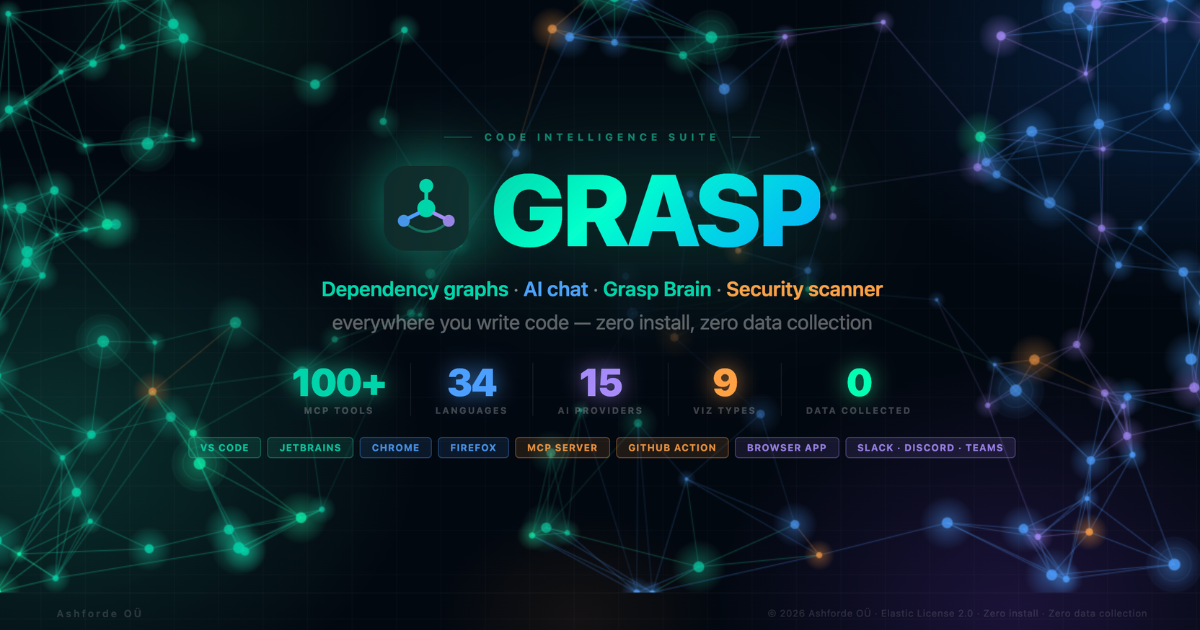
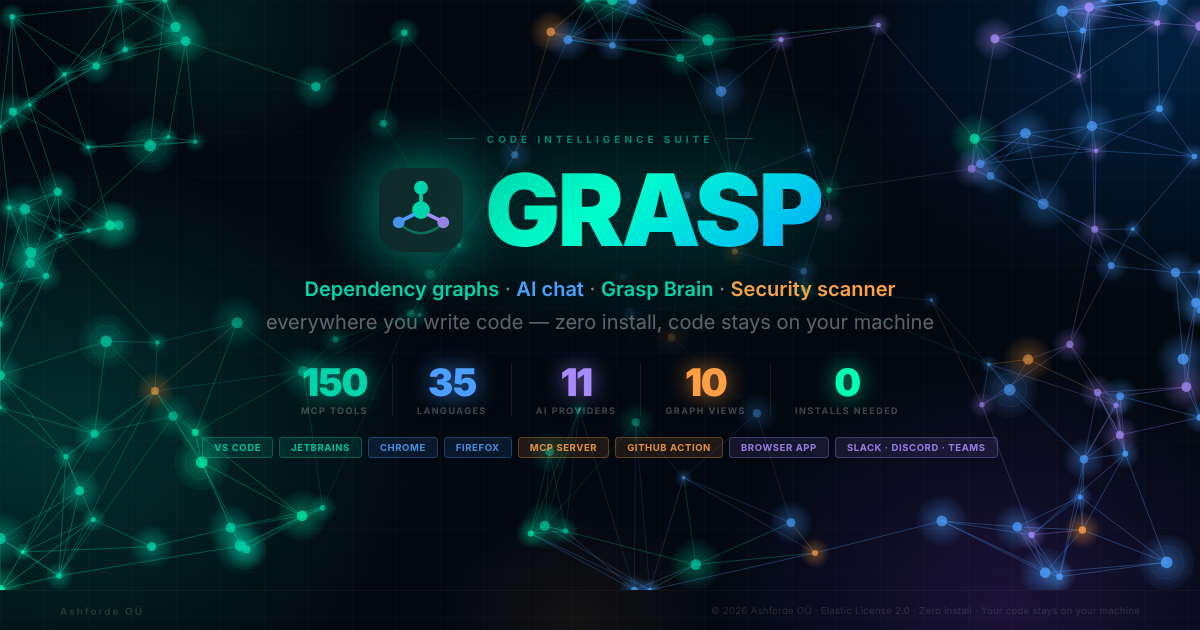
docs: refresh the README hero with current numbers (150 tools, 35 languages, 11 AI providers, 10 views) and privacy wording

diff --git a/grasp-social.html b/grasp-social.html
@@ -102,14 +102,14 @@
   </div>
   <div class="tagline">
     <span class="tl">Dependency graphs</span> · <span class="bl">AI chat</span> · <span class="tl">Grasp Brain</span> · <span class="or">Security scanner</span><br>
-    <span style="color:rgba(255,255,255,0.36)">everywhere you write code — zero install, zero data collection</span>
+    <span style="color:rgba(255,255,255,0.36)">everywhere you write code — zero install, code stays on your machine</span>
   </div>
   <div class="stats">
-    <div class="stat"><div class="num ntl">100+</div><div class="lbl">MCP Tools</div></div>
-    <div class="stat"><div class="num nbl">34</div><div class="lbl">Languages</div></div>
-    <div class="stat"><div class="num npu">15</div><div class="lbl">AI Providers</div></div>
-    <div class="stat"><div class="num nor">9</div><div class="lbl">Viz Types</div></div>
-    <div class="stat"><div class="num ngr">0</div><div class="lbl">Data Collected</div></div>
+    <div class="stat"><div class="num ntl">150</div><div class="lbl">MCP Tools</div></div>
+    <div class="stat"><div class="num nbl">35</div><div class="lbl">Languages</div></div>
+    <div class="stat"><div class="num npu">11</div><div class="lbl">AI Providers</div></div>
+    <div class="stat"><div class="num nor">10</div><div class="lbl">Graph Views</div></div>
+    <div class="stat"><div class="num ngr">0</div><div class="lbl">Installs Needed</div></div>
   </div>
   <div class="chips">
     <div class="chip ctl">VS Code</div>
@@ -125,7 +125,7 @@
 
 <div class="bottom">
   <div class="domain">Ashforde OÜ</div>
-  <div class="foot">© 2026 Ashforde OÜ · Elastic License 2.0 · Zero install · Zero data collection</div>
+  <div class="foot">© 2026 Ashforde OÜ · Elastic License 2.0 · Zero install · Your code stays on your machine</div>
 </div>
 
 <script>
